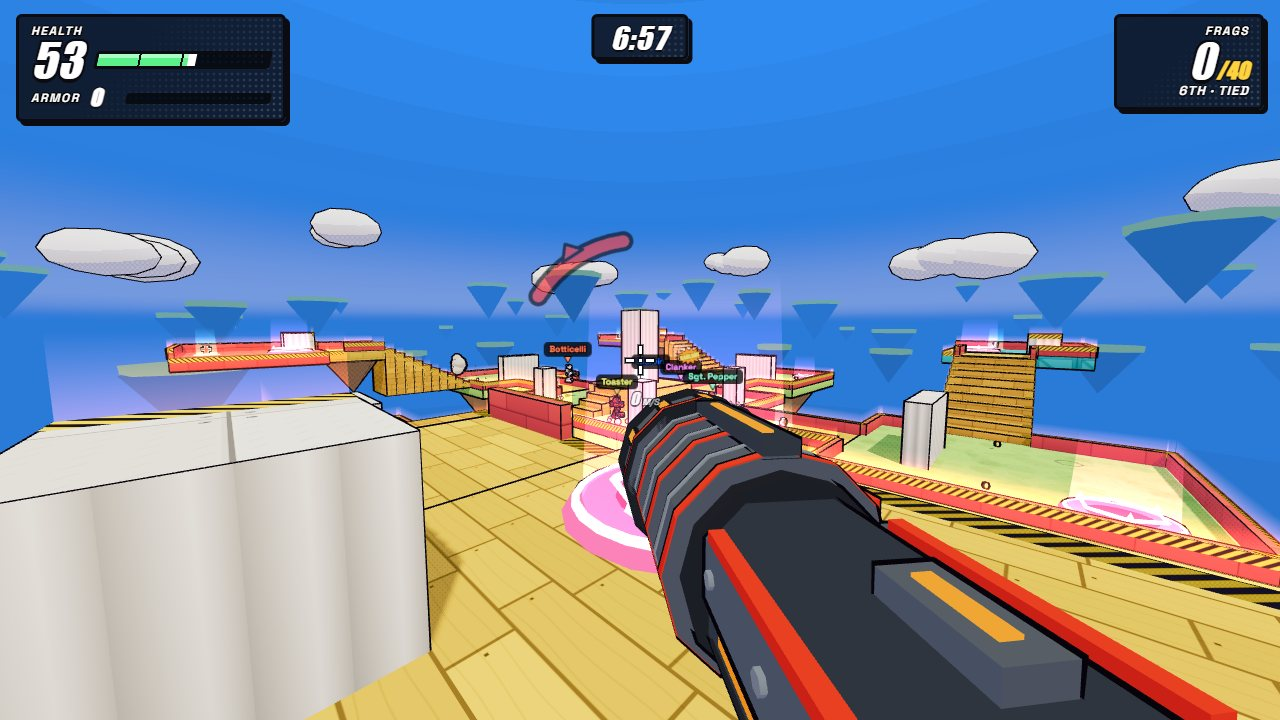
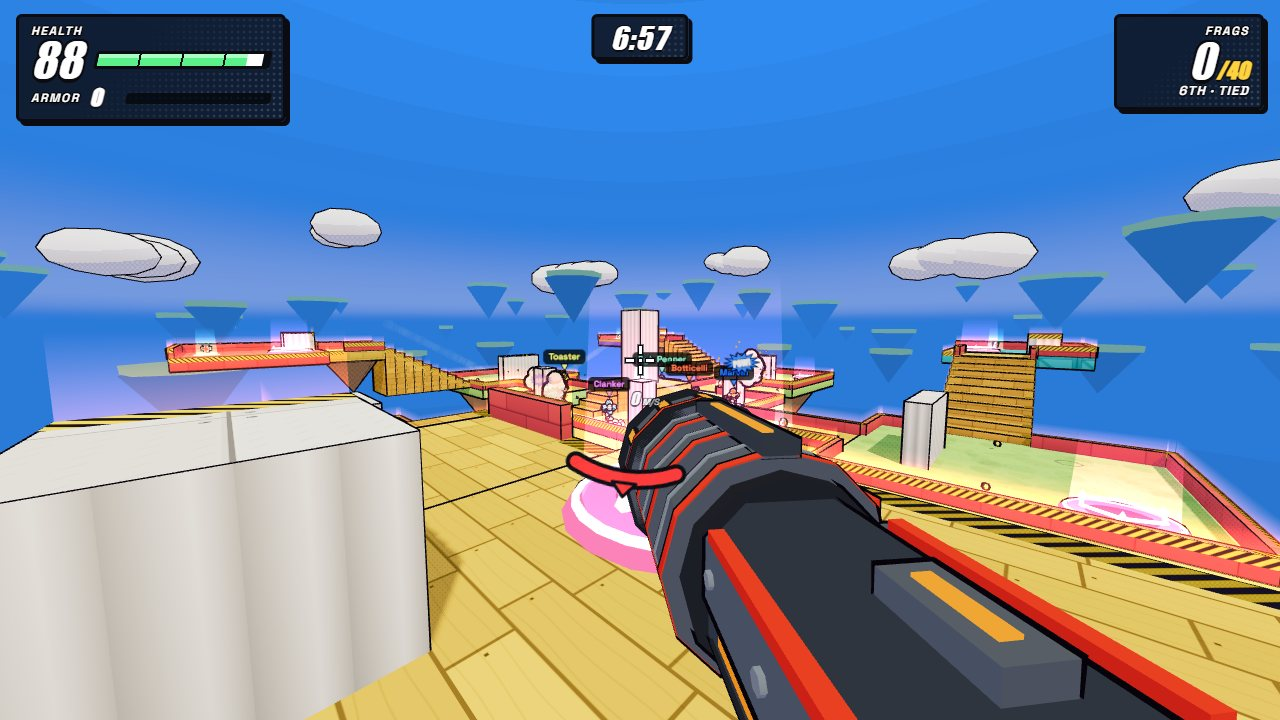
play: Rockets Foundry: a 12 m furnace tower with a glowing core tube, wet steel decks, a smooth dusk sky

diff --git a/play/frontend/src/games/rockets/arena.ts b/play/frontend/src/games/rockets/arena.ts
@@ -39,8 +39,19 @@ export interface ArenaView {
   dispose(): void;
 }
 
-/** A toon material that picks a side texture or a top texture per face (attribute `aTop`), both in world metres. */
-function surfaceMaterial(color: number, surface: Surface, tex: (k: TexKey) => THREE.Texture): THREE.MeshToonMaterial {
+/** What a wet top surface reflects: the sky's horizon and zenith colours and the sun. */
+interface Wet {
+  horizon: THREE.Color;
+  zenith: THREE.Color;
+  sun: THREE.Color;
+  sunDir: THREE.Vector3;
+}
+
+/**
+ * A toon material that picks a side texture or a top texture per face (attribute `aTop`), both in world metres. With
+ * `wet`, top faces get a glossy sheen: the sky and the sun reflected, strongest at grazing angles (Fresnel).
+ */
+function surfaceMaterial(color: number, surface: Surface, tex: (k: TexKey) => THREE.Texture, wet?: Wet): THREE.MeshToonMaterial {
   const mat = new THREE.MeshToonMaterial({ color, gradientMap: toonRamp(), map: tex(surface.side), vertexColors: true });
   const crate = surface.side === 'crate';
   const topMap = tex(surface.top);
@@ -58,8 +69,31 @@ function surfaceMaterial(color: number, surface: Surface, tex: (k: TexKey) => TH
         `vec4 sampledDiffuseColor = mix(texture2D(map, vMapUv * sideScale), texture2D(topMap, vMapUv * topScale), vTop);
         diffuseColor *= sampledDiffuseColor;`,
       );
+    if (!wet) return;
+    shader.uniforms.wetHorizon = { value: wet.horizon };
+    shader.uniforms.wetZenith = { value: wet.zenith };
+    shader.uniforms.wetSun = { value: wet.sun };
+    shader.uniforms.wetSunDir = { value: wet.sunDir };
+    shader.fragmentShader =
+      'uniform vec3 wetHorizon;\nuniform vec3 wetZenith;\nuniform vec3 wetSun;\nuniform vec3 wetSunDir;\n' +
+      shader.fragmentShader.replace(
+        '#include <opaque_fragment>',
+        `{
+          vec3 viewDir = normalize(vViewPosition);
+          vec3 n = normalize(normal);
+          vec3 r = normalize((vec4(reflect(-viewDir, n), 0.0) * viewMatrix).xyz);
+          float fres = 0.12 + 0.88 * pow(1.0 - max(dot(n, viewDir), 0.0), 3.0);
+          vec3 sky = mix(wetHorizon, wetZenith, smoothstep(0.0, 0.7, r.y));
+          float s = max(dot(r, wetSunDir), 0.0);
+          // Panel seams and grime stay dry: the sheen follows the texture's brightness.
+          float gloss = smoothstep(0.25, 0.75, dot(sampledDiffuseColor.rgb, vec3(0.333))) * vTop;
+          outgoingLight = mix(outgoingLight, sky, clamp(fres * 0.6, 0.0, 1.0) * gloss);
+          outgoingLight += wetSun * (pow(s, 60.0) * 3.0 + pow(s, 8.0) * 0.35) * gloss * (0.3 + fres);
+        }
+        #include <opaque_fragment>`,
+      );
   };
-  mat.customProgramCacheKey = () => 'arenaSurface';
+  mat.customProgramCacheKey = () => (wet ? 'arenaSurfaceWet' : 'arenaSurface');
   return mat;
 }
 
@@ -154,6 +188,10 @@ export function buildArena(map: MapData): ArenaView {
     return t;
   };
   const rand = mulberry(seed);
+  // Dusk maps have rain-wet decks.
+  const wet: Wet | undefined = theme.dusk
+    ? { horizon: new THREE.Color(map.fogColor), zenith: new THREE.Color(map.skyColor), sun: new THREE.Color(0xffb060), sunDir: sunDirOf(theme) }
+    : undefined;
 
   // ---- surfaces, merged per kind, plus one ink hull and one set of crease lines for everything ----
   const byKind = new Map<Visible, THREE.BufferGeometry[]>();
@@ -208,7 +246,7 @@ export function buildArena(map: MapData): ArenaView {
     const merged = mergeGeometries(list, false);
     for (const g of list) g.dispose();
     if (!merged) continue;
-    const mat = surfaceMaterial(map.tint?.[kind] ?? PALETTE[kind], theme.surfaces[kind] ?? BASE_SURFACES[kind], tex);
+    const mat = surfaceMaterial(map.tint?.[kind] ?? PALETTE[kind], theme.surfaces[kind] ?? BASE_SURFACES[kind], tex, kind === 'floor' ? wet : undefined);
     const mesh = new THREE.Mesh(merged, mat);
     mesh.receiveShadow = true;
     mesh.castShadow = kind !== 'floor' && kind !== 'wall';

diff --git a/play/frontend/src/games/rockets/arenaDecor.ts b/play/frontend/src/games/rockets/arenaDecor.ts
@@ -479,20 +479,32 @@ function neonTrim(map: MapData, solid: Bucket, glow: Bucket, rand: () => number)
     }
   }
   if (core) {
-    const h = core.max.y - core.min.y;
-    const sx = core.max.x - core.min.x;
-    const slotH = h - 1.6;
-    const cy = core.min.y + 0.6 + slotH / 2;
+    // The furnace tower: the part that stands clear of the dais gets a tall glowing tube behind a dark frame on every
+    // face, yellow pilasters down the corners and dark steel bands, all flush with the walls (nothing to stand on).
+    const ex = (core.max.x - core.min.x) / 2;
+    const ez = (core.max.z - core.min.z) / 2;
+    const ccx = (core.min.x + core.max.x) / 2;
+    const ccz = (core.min.z + core.max.z) / 2;
+    let foot = core.min.y;
+    for (const o of map.boxes) if (o !== core && o.kind !== 'clip' && o.max.y > foot && o.max.y < core.max.y && ccx > o.min.x && ccx < o.max.x && ccz > o.min.z && ccz < o.max.z) foot = o.max.y;
+    const slotH = core.max.y - foot - 1.8;
+    const cy = foot + 0.9 + slotH / 2;
     for (const [nx, nz] of [[1, 0], [-1, 0], [0, 1], [0, -1]]) {
-      const half = (nx ? sx : core.max.z - core.min.z) / 2;
-      const x = (core.min.x + core.max.x) / 2 + nx * (half + 0.03);
-      const z = (core.min.z + core.max.z) / 2 + nz * (half + 0.03);
+      const half = nx ? ex : ez;
+      const x = ccx + nx * (half + 0.03);
+      const z = ccz + nz * (half + 0.03);
       const yaw = Math.atan2(nx, nz);
-      const w = Math.min(half * 0.9, 1.6);
-      solid.add(at(box(w + 0.5, slotH + 0.5, 0.12), x, cy, z, yaw), 0x2a2634);
-      glow.add(at(box(w, slotH, 0.16), x, cy, z, yaw), 0xff7a1e);
-      glow.add(at(box(w * 0.35, slotH, 0.18), x, cy, z, yaw), 0xffe08a);
-      for (let y = cy - slotH / 2 + 0.8; y < cy + slotH / 2; y += 1.4) solid.add(at(box(w + 0.1, 0.1, 0.2), x, y, z, yaw), 0x2a2634);
+      const w = Math.min(half * 0.7, 1.4);
+      solid.add(at(box(w + 0.6, slotH + 0.6, 0.12), x, cy, z, yaw), 0x2a2634);
+      glow.add(at(box(w, slotH, 0.16), x, cy, z, yaw), 0xff6a14);
+      glow.add(at(box(w * 0.32, slotH, 0.18), x, cy, z, yaw), 0xffe6a0);
+      for (let y = cy - slotH / 2 + 1; y < cy + slotH / 2 - 0.3; y += 1.6) solid.add(at(box(w + 0.1, 0.12, 0.2), x, y, z, yaw), 0x2a2634);
     }
+    for (const [sx, sz] of [[1, 1], [1, -1], [-1, 1], [-1, -1]]) {
+      const ph = core.max.y - foot - 0.3;
+      solid.add(at(box(0.7, ph, 0.7), ccx + sx * (ex - 0.25), foot + ph / 2, ccz + sz * (ez - 0.25)), 0xe8ac1c);
+      glow.add(at(box(0.08, ph * 0.6, 0.08), ccx + sx * (ex + 0.11), foot + ph * 0.45, ccz + sz * (ez + 0.11)), 0xffc040);
+    }
+    for (const y of [foot + 0.35, core.max.y - 0.3]) solid.add(at(box(ex * 2 + 0.24, 0.5, ez * 2 + 0.24), ccx, y, ccz), 0x34303e);
   }
 }

diff --git a/play/frontend/src/games/rockets/arenaSky.ts b/play/frontend/src/games/rockets/arenaSky.ts
@@ -38,6 +38,8 @@ export function buildSky(map: MapData, theme: Theme, disposables: Disposable[]):
       haze: { value: horizon.clone().lerp(new THREE.Color(0xffffff), 0.22) },
       deep: { value: zenith.clone().multiplyScalar(0.45).lerp(horizon, 0.25) },
       hazeAmount: { value: space ? 0.3 : 0.7 },
+      // Printed bands in the sky; a dusk sky is one smooth wash instead.
+      bands: { value: dusk ? 0 : 1 },
       sunDir: { value: sunDir },
       sunColor: { value: new THREE.Color(map.id === 'canyon' || dusk ? 0xffd86a : 0xfff8dc) },
       sunSize: { value: Math.cos(map.id === 'canyon' ? 0.11 : dusk ? 0.09 : space ? 0.035 : 0.07) },
@@ -57,6 +59,7 @@ export function buildSky(map: MapData, theme: Theme, disposables: Disposable[]):
       uniform vec3 horizon;
       uniform vec3 haze;
       uniform float hazeAmount;
+      uniform float bands;
       uniform vec3 deep;
       uniform vec3 sunDir;
       uniform vec3 sunColor;
@@ -71,7 +74,7 @@ export function buildSky(map: MapData, theme: Theme, disposables: Disposable[]):
           // Banded like a printed gradient higher up, darkening again toward the top; the lowest stretch is a smooth
           // ramp out of the horizon colour so no hard step sits right on the skyline.
           float x = smoothstep(0.0, 0.92, h);
-          float t = mix(x, floor(x * 7.0) / 7.0, smoothstep(0.12, 0.3, x));
+          float t = mix(x, floor(x * 7.0) / 7.0, smoothstep(0.12, 0.3, x) * bands);
           col = mix(horizon, zenith, min(t * 1.7, 1.0));
           col = mix(col, zenith * 0.62, smoothstep(0.55, 1.0, t));
           // A soft haze lifting off the horizon, smooth on both edges.

diff --git a/play/backend/src/shared/rockets/maps.ts b/play/backend/src/shared/rockets/maps.ts
@@ -19,8 +19,8 @@ function foundry(): MapData {
   const platH = 3;
   const ring = 4;
   const gantry = 6;
-  // The furnace blocks the views across the dais; its top and health pack are a rocket jump away.
-  b.block('platform', 0, 0, 8, 8, platH).block('stair', 0, 0, 2.5, 2.5, 8).pack(0, 8, 0);
+  // The furnace tower blocks the views across the dais; its top and health pack are a rocket jump away.
+  b.block('platform', 0, 0, 8, 8, platH).block('stair', 0, 0, 2.5, 2.5, 12).pack(0, 12, 0);
   b.pair((p) => p.stairs('z', -1, 0, 8 + B.run(0, platH), 5, 0, platH).pack(5, platH, 5));
   // Chimneys (pink and teal by quarter) straddle the wall ledges: walk under the arch, but nobody sees along the whole ring.
   marks(['tower', 'crate', 'tower', 'crate'], (p) => p.box('tower', 25, 0, -1.5, 27, 15, 1.5).box('tower', 27, ring + 2.4, -1.5, half, 15, 1.5));
@@ -44,7 +44,7 @@ function foundry(): MapData {
     half,
     skyColor: 0x22308e,
     fogColor: 0xc06c9e,
-    tint: { floor: 0x8e94aa, wall: 0xc23c8c, platform: 0xe2489e, stair: 0xf2c232, pillar: 0xf2c232, tower: 0xd8409a, crate: 0x2fbccc, ledge: 0xf2c232 },
+    tint: { floor: 0x5c6278, wall: 0xc23c8c, platform: 0xe2489e, stair: 0xf2c232, pillar: 0xf2c232, tower: 0xd8409a, crate: 0x2fbccc, ledge: 0xf2c232 },
   });
 }
 
